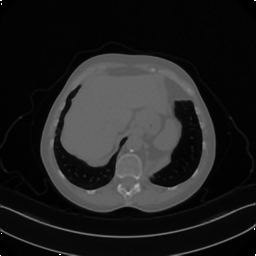
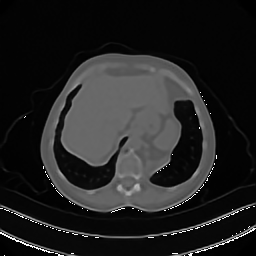
addestramento EtE con diversi livelli di rumore e scale

diff --git a/EtE.py b/EtE.py
@@ -3,10 +3,7 @@ import torch
 from torch.nn import functional as F
 from MyUtilities import MayoDataset, Losses, MyTrainer
 from torch.utils.data import DataLoader
-from skimage.metrics import peak_signal_noise_ratio, structural_similarity
 from sklearn.model_selection import train_test_split
-
-# ⚠️ Receptive Field: 44*44
 
 #class DoubleConv(nn.Module):
 #    def __init__(self, in_channels, out_channels):
@@ -143,11 +140,47 @@ class UNet(nn.Module):
 
         # --- Output Finale ---
         return x - self.final_conv(up3) # X = Y + n => X - Y = n
-    
-dataSetTrain = MayoDataset(data_path='./Mayo/train', data_shape_HR=(256, 256), data_shape_LR=(128, 128), noise_level=0.005, downscale_factor=2)
+
+
+# =====================================================================
+# 🔧 CONFIGURAZIONE
+# =====================================================================
+
+# --- Variante 1: rumore 0.005, scale 2 (già allenato) ---
+# NOISE_LEVEL = 0.005
+# SCALE = 2
+# MODEL_NAME = "UNet_MSE_SSIM_FL_Residual_Attention_PixelShuffle_noise005_scale2"
+# LOAD_WEIGHTS = './ResultsEtE/UNet_MSE_SSIM_FL_Residual_Attention_PixelShuffle_noise005_scale2.pth'
+# DO_TRAIN = False   # è già allenato, vuoi solo testarlo
+
+# --- Variante 2: rumore 0.01, scale 2 (già allenato) ---
+#NOISE_LEVEL = 0.01
+#SCALE = 2
+#MODEL_NAME = "UNet_MSE_SSIM_FL_Residual_Attention_PixelShuffle_noise01_scale2"
+#LOAD_WEIGHTS = './ResultsEtE/UNet_MSE_SSIM_FL_Residual_Attention_PixelShuffle_noise01_scale2.pth'
+#DO_TRAIN = False
+
+# --- Variante 3: rumore 0.005, scale 4 (già allenato) ---
+#NOISE_LEVEL = 0.005
+#SCALE = 4
+#MODEL_NAME = "UNet_MSE_SSIM_FL_Residual_Attention_PixelShuffle_noise005_scale4"
+#LOAD_WEIGHTS = None
+#DO_TRAIN = True
+
+# --- Variante 4: rumore 0.01, scale 4 (già allenato) ---
+NOISE_LEVEL = 0.01
+SCALE = 4
+MODEL_NAME = "UNet_MSE_SSIM_FL_Residual_Attention_PixelShuffle_noise01_scale4"
+LOAD_WEIGHTS = None
+DO_TRAIN = True
+
+# =====================================================================
+
+
+dataSetTrain = MayoDataset(data_path='./Mayo/train', data_shape_HR=(256, 256), data_shape_LR=(128, 128), noise_level=NOISE_LEVEL, downscale_factor=SCALE)
 trainSet, validationSet = train_test_split(dataSetTrain, test_size=0.15, random_state=42)
-testSet = MayoDataset(data_path='./Mayo/test', data_shape_HR=(256, 256), data_shape_LR=(128, 128), noise_level=0.005, downscale_factor=2)
-betchSize = 32 #Si più non ce la fa!!
+testSet = MayoDataset(data_path='./Mayo/test', data_shape_HR=(256, 256), data_shape_LR=(128, 128), noise_level=NOISE_LEVEL, downscale_factor=SCALE)
+betchSize = 8 #PC Mattia si può mettere a 32, PC Pietro và messo a 8
 
 
 print(f'⚠️ Training set size: {len(trainSet)} with betch: {betchSize}')
@@ -159,7 +192,8 @@ validationLoader = DataLoader(validationSet, batch_size=betchSize, shuffle=True)
 testLoader = DataLoader(testSet, batch_size=betchSize, shuffle=True)
 
 modelResidualUNet = UNet(in_channels=1, out_channels=1) 
-modelResidualUNet.load_state_dict(torch.load('./ResultsEtE/UNet_MSE_SSIM_FL_Residual_Attention_PixelShuffle.pth'))
+if LOAD_WEIGHTS is not None:
+    modelResidualUNet.load_state_dict(torch.load(LOAD_WEIGHTS))
 
 optimizerUNet = torch.optim.Adam(modelResidualUNet.parameters(), lr=5e-4)
 
@@ -172,18 +206,16 @@ trainerUNet = MyTrainer(
     scheduler=torch.optim.lr_scheduler.CosineAnnealingLR(optimizerUNet, T_max=4), 
     loss_fn= Losses(MSE=0.8, FL=1, SSIM=1).MSE_SSIM_FL(),
     num_epochs=8,
-    modelName="DeleteTest",
+    modelName=MODEL_NAME,
     best_model=True,
     betchTrainingValidationPrint=25,
-    evalMetrich=[structural_similarity, peak_signal_noise_ratio],
-    # It compares local image patches in terms of luminance, contrast, and structure, and is therefore much more sensitive to structural distortions. SSIM usually takes values between 0 and 1, where values closer to 1 indicate higher similarity.
-    # A larger PSNR corresponds to a smaller pixel-wise error. It remains a pixel-wise fidelity measure.
     resultRoot="./ResultsEtE"
-    )
+)
 
+if DO_TRAIN:
+    trainerUNet.train()
 
 trainerUNet.test()
-print('Test on image: ', trainerUNet.testOnImage(path='./267.png', data_shape_HR=(256, 256), data_shape_LR=(128, 128), noise_level=0.005))
-#trainerUNet.train()
+print('Test on image: ', trainerUNet.testOnImage(path='./267.png', data_shape_HR=(256, 256), data_shape_LR=(128, 128), noise_level=NOISE_LEVEL))
 
 